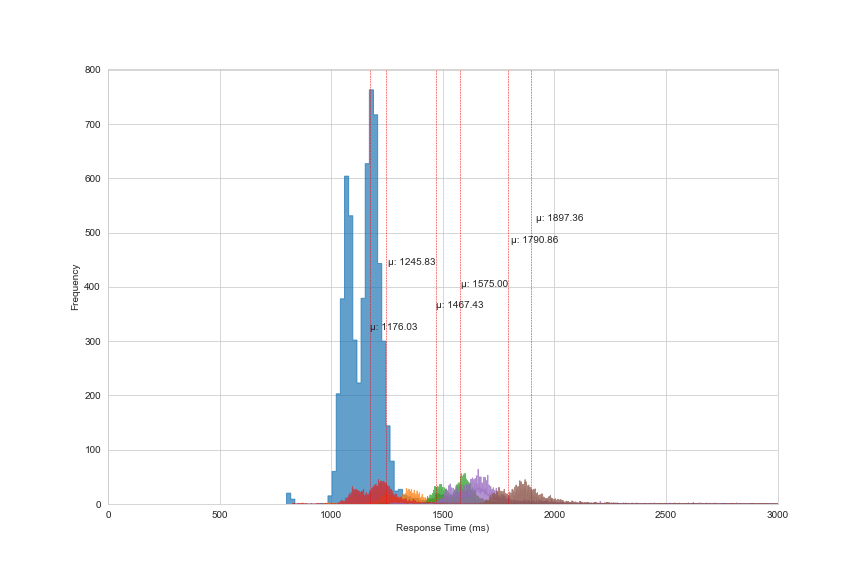
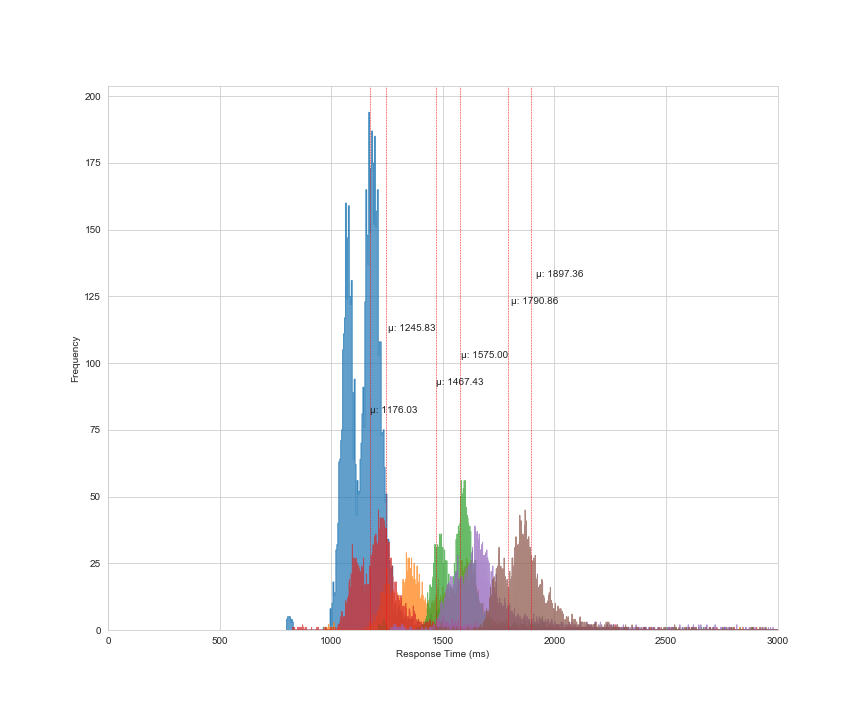
script update
updated the script

diff --git a/neocortix_jmeter_histogram.py b/neocortix_jmeter_histogram.py
@@ -57,8 +57,8 @@ def generate_histogram():
         df = pd.read_csv(FILE) # read the file
         
         #default histogram settings
-        plt.figure(figsize=(12,8))
-        kwargs = dict(histtype='step', stacked=False, alpha=0.7, fill=True, bins=7000)
+        plt.figure(figsize=(12,10))
+        kwargs = dict(histtype='step', stacked=False, alpha=0.7, fill=True, bins=30000)
         plt.xlim(0,3000)
         plt.xlabel('Response Time (ms)')
         plt.ylabel('Frequency')
